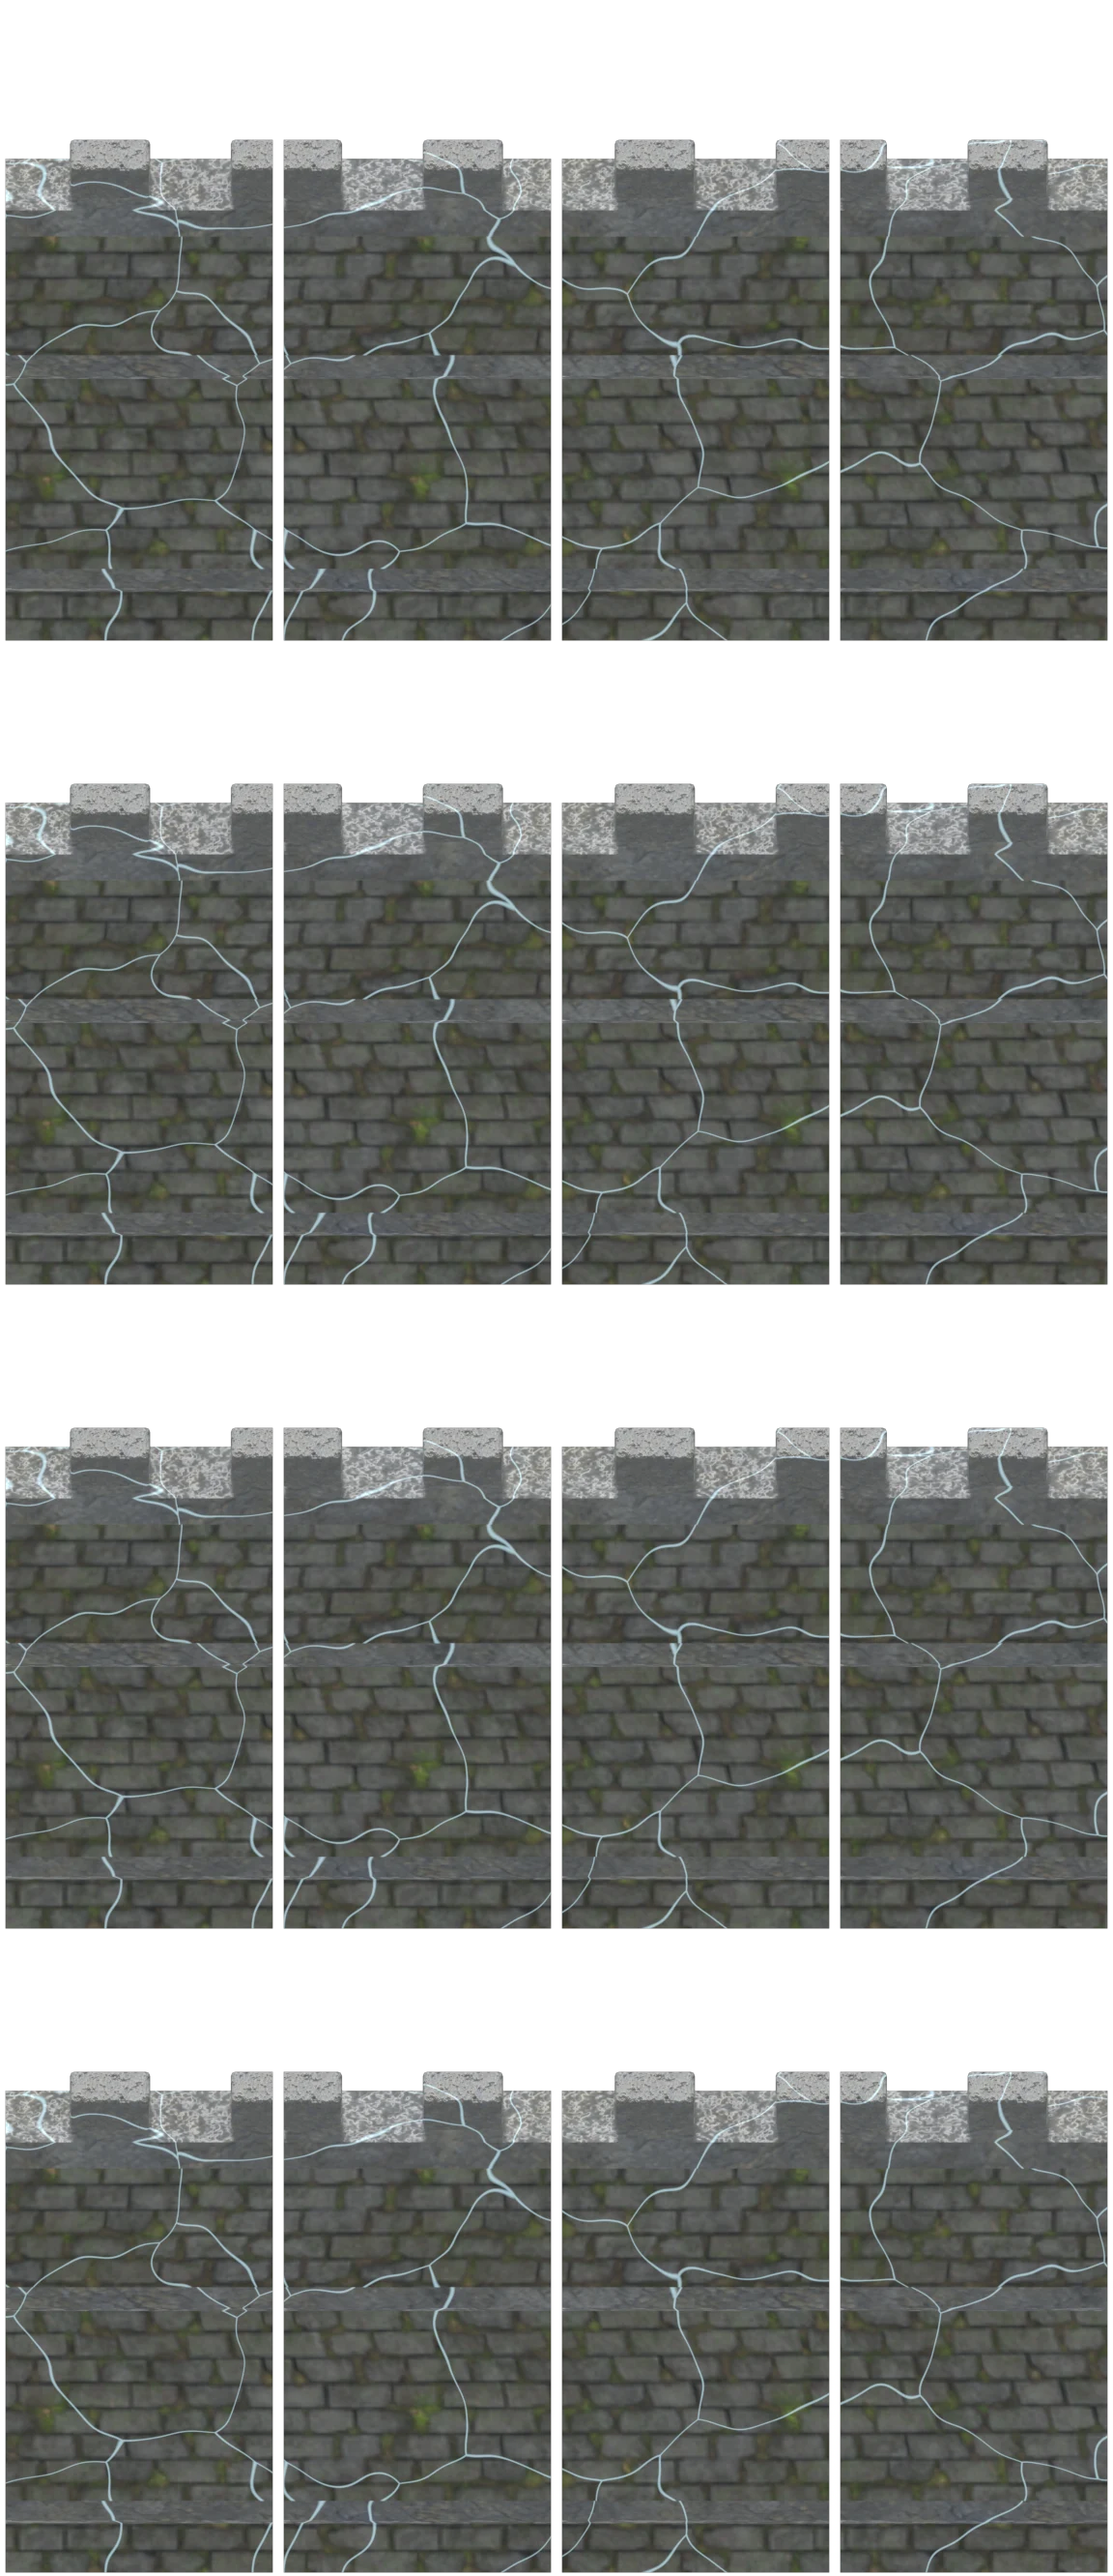
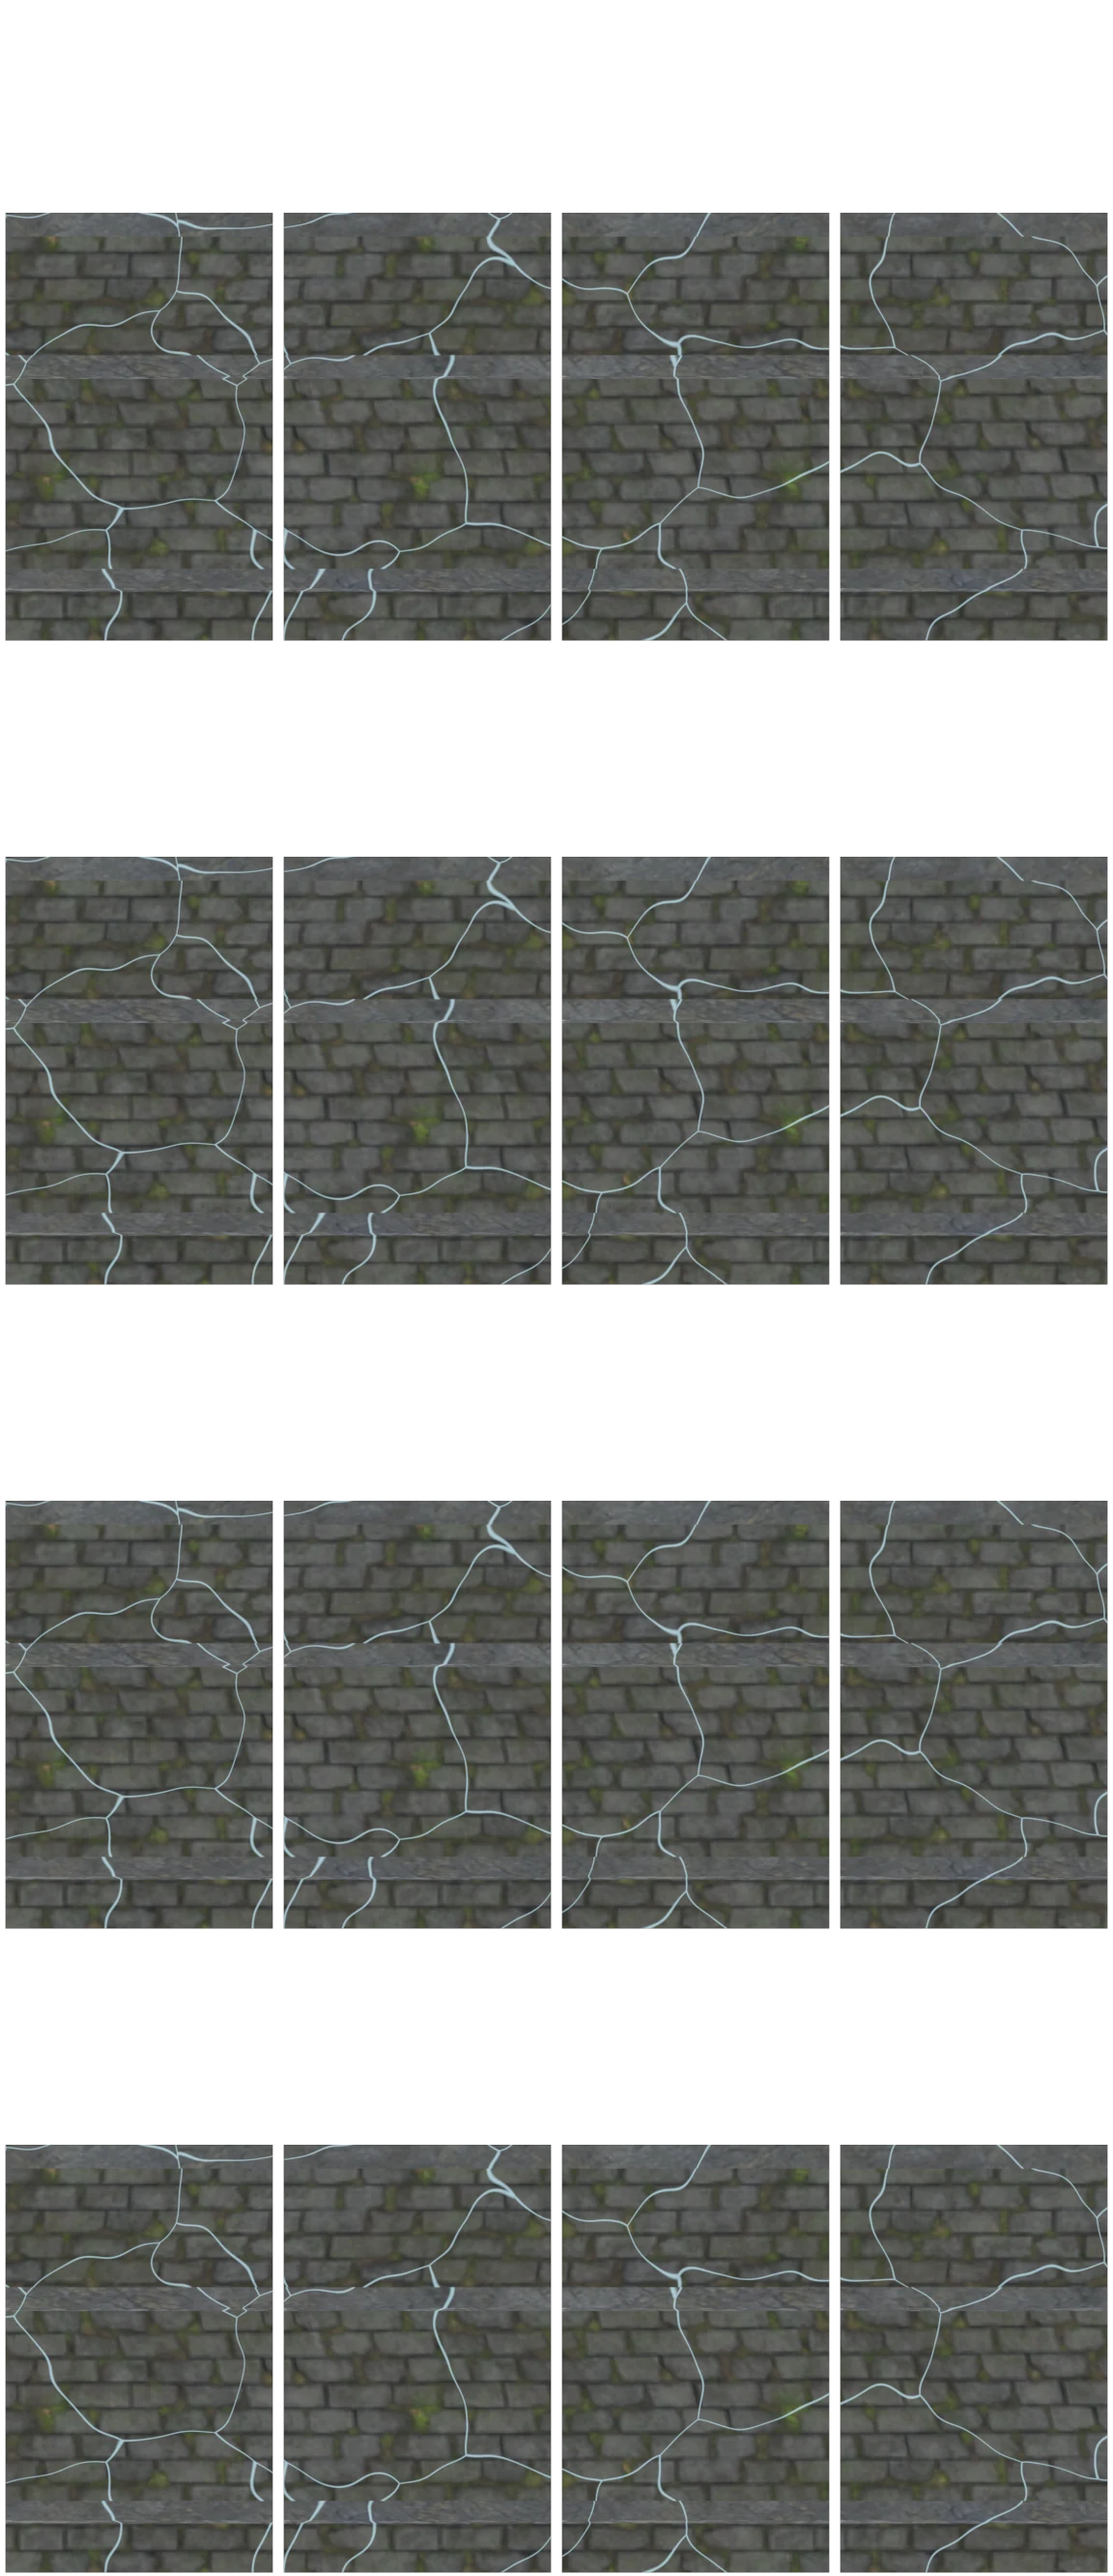
render: calm stone jitter, flat ashlar tops, front-on faces (TB-227)

diff --git a/src/data/presentation.ts b/src/data/presentation.ts
@@ -108,7 +108,7 @@ export const GROUND = {
   wallTiers: {
     at: [1.9, 3.7, 7], perPerk: 0.5, rows: [1, 1, 1, 1], scale: [1, 1.3, 1.7, 2.2],
     /** TB-227: the atlas drawn at each tier (weak palisade, medium stone, strong castle with mithril veins) and whether that tier flips every other panel (stone courses must not herringbone). */
-    atlas: ['fence_weak', 'fence_medium', 'fence_medium', 'fence_strong'], mirror: [false, false, false, false], calm: [1, 1, 1, 0.2],
+    atlas: ['fence_weak', 'fence_medium', 'fence_medium', 'fence_strong'], mirror: [false, false, false, false], calm: [0.5, 0.2, 0.2, 0.2],
     rowDx: -11, rowDy: [0, 0.5, 0.25], rowShade: 0.18, backMax: 18, shadowDx: -8, shadowW: 0.7, brokenAlpha: 0.9, brokenDx: 4, brokenDy: 5, brokenTilt: 0.14, brokenShade: 0.25, brokenSnap: 0.25, zig: 5, brokenGap: 3, jitter: 3, rowSeed: 7, breakScatter: 0.618034,
   },
 } as const;

diff --git a/docs/ART-STYLE.md b/docs/ART-STYLE.md
@@ -84,7 +84,7 @@ The plain reads as natural, calm grassland, not a flat board. Layout is seeded (
 - All fonts ship with the game as woff2 in `src/ui/fonts/`, declared in `src/ui/style.css`; no web font service (TB-118). Heartwood is original to the game; Spectral and Atkinson were removed in TB-137. A new weight or style needs its file added there.
 - Tabular numerals everywhere numbers change.
 - Readability (TB-138, TB-191): body 1rem = 1/54 of window height (20 px at 1920×1080, 40 px at 3840×2160 DPR 1, 20 CSS px = 40 device px at DPR 2; never under 16 px), so it reads from a couch on a TV. Floor: no text under 0.875rem (1.62% of screen height) on PC; only the ≤540 px phone layout goes smaller. Canvas: tree labels 14 layout px × `uiScale()`; field HUD 13 and damage numbers 15 field units (≈2.7% / 3.1% of screen height) × `textScale()`. Settings › Text size (80–160%) multiplies all of it; text is warm parchment `--text` / `P.text` (#ecdcb4), secondary `--text-dim` / `P.textDim`, every DOM text has a dark ink halo (`text-shadow`), canvas labels a 4 px ink shadow and +3 px.
-- Barricade tiers (TB-209): three per-tier atlases (`fence_weak` palisade, `fence_medium` stone for tiers 1 and 2, `fence_strong` castle wall with mithril veins; 4 panel variants each; stone tiers are never mirrored, `GROUND.wallTiers.mirror`; the strong tier is calm: `calm` 0.2 scales its jitter) is stacked with a jittered pitch and random variants; back rows are shaded toward ink, and the wall gains rows and a larger scale as its max health passes the `GROUND.wallTiers` thresholds (1.9x, 3.7x, 7x base): one plain row per tier, growing in scale (1, 1.3, 1.7, 2.2). A wall with repair or bulwark perks is lit green. Broken panels lean, snap and drop out. No code-drawn parts.
+- Barricade tiers (TB-209): three per-tier atlases (`fence_weak` palisade, `fence_medium` stone for tiers 1 and 2, `fence_strong` castle wall with mithril veins; 4 panel variants each; stone tiers are never mirrored, `GROUND.wallTiers.mirror`; `calm` scales every panel jitter: 0.5, 0.2, 0.2, 0.2) is stacked with a jittered pitch and random variants; back rows are shaded toward ink, and the wall gains rows and a larger scale as its max health passes the `GROUND.wallTiers` thresholds (1.9x, 3.7x, 7x base): one plain row per tier, growing in scale (1, 1.3, 1.7, 2.2). A wall with repair or bulwark perks is lit green. Broken panels lean, snap and drop out. No code-drawn parts.
 - Run layout (TB-138): the 15:8 field fills the window (fit, letterboxed), frame 16 px; header stats float over the field. The far hills run across grove, barricade and plain, drawn over the fence.
 
 **Between-runs panel (TB-195p).** The display face is for headings of 24px and up only; every label, value and button under that uses `--body` (system UI stack), sentence case, at least 16px. One button system: primary = gold plank (`.buy`, `#camp-go`, ink text, >=44px tall, no glow); secondary = wood plank (`.ghost`); destructive = wood with a rose edge and rose text (`.ghost.danger`), set 2rem apart. Selected states use a thicker edge in the item's own colour plus an inner glow, never bloom.
